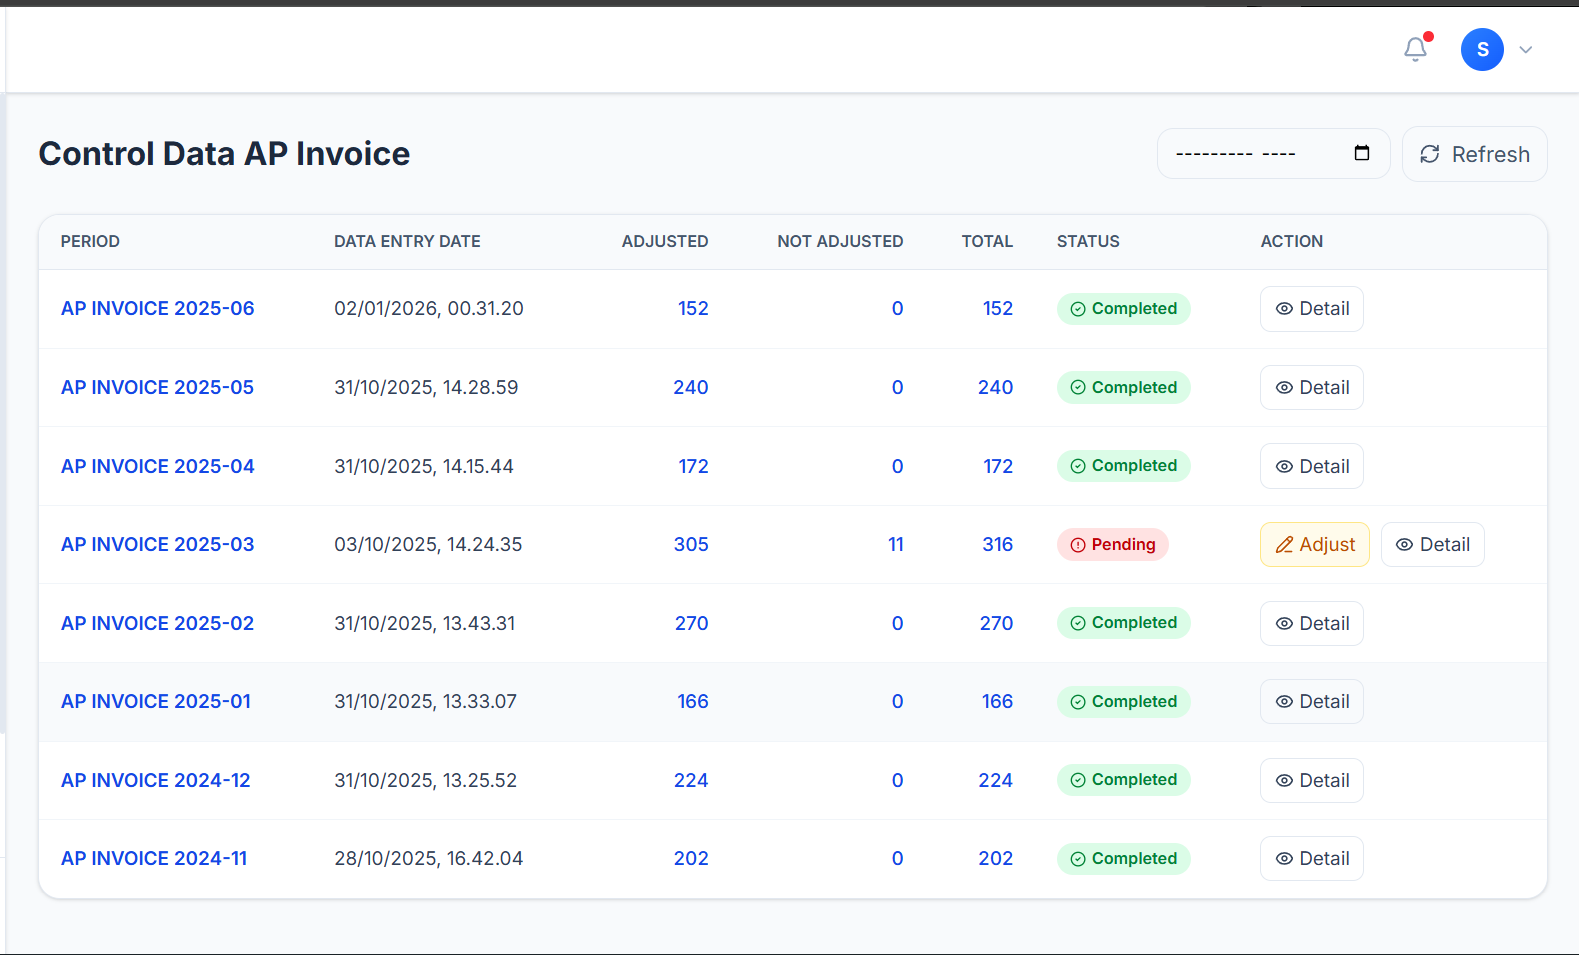
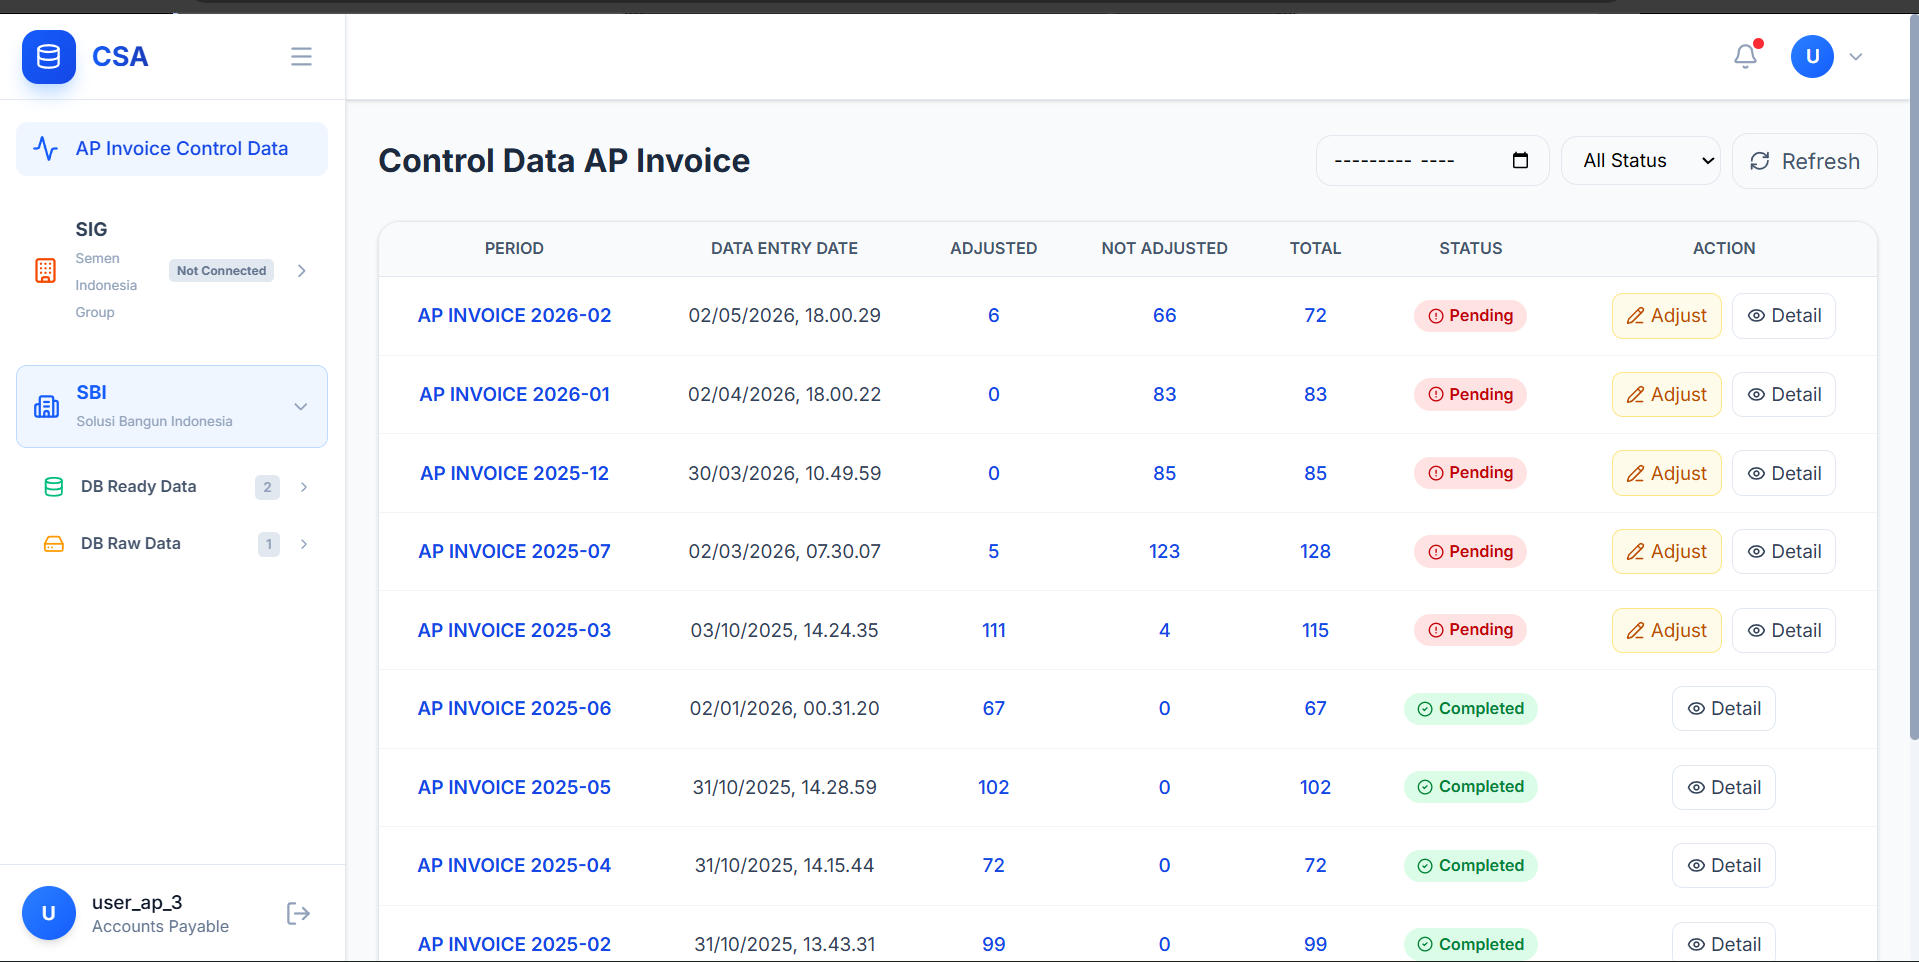
update csa

diff --git a/src/components/portfolio/ProjectsSection.tsx b/src/components/portfolio/ProjectsSection.tsx
@@ -19,7 +19,7 @@ const ProjectsSection = () => {
       description:
         "This application enables teams from each module to view data that has been loaded into the datamart and identify data that requires correction. Through this system, original source data is separated from user-corrected data, ensuring data integrity and simplifying the audit process.",
       image: "/assets/sisi/csa1.png",
-      images: ["/assets/sisi/csa1.png", "/assets/sisi/csa2.png", "/assets/sisi/csa3.png", "/assets/sisi/csa4.png", "/assets/sisi/csa5.png", "/assets/sisi/csa6.png"],
+      images: ["/assets/sisi/csa1.png", "/assets/sisi/csa2.png", "/assets/sisi/csa3.png", "/assets/sisi/csa4.png", "/assets/sisi/csa5.png", "/assets/sisi/csa6.png", "/assets/sisi/csa7.png"],
       technologies: ["Laravel", "React", "PostgreSQL"],
       company: "PT Sinergi Informatika Semen Indonesia",
       category: "Internship Project",

diff --git a/src/pages/Index.tsx b/src/pages/Index.tsx
@@ -15,7 +15,7 @@ const Index = () => {
       company: "PT Sinergi Informatika Semen Indonesia",
       bgColor: "bg-gradient-to-br from-sky-200 to-blue-100 border-2 border-blue-200",
       image: "/assets/sisi/csa1.png",
-      images: ["/assets/sisi/csa1.png", "/assets/sisi/csa2.png", "/assets/sisi/csa3.png", "/assets/sisi/csa4.png", "/assets/sisi/csa5.png", "/assets/sisi/csa6.png"],
+      images: ["/assets/sisi/csa1.png", "/assets/sisi/csa2.png", "/assets/sisi/csa3.png", "/assets/sisi/csa4.png", "/assets/sisi/csa5.png", "/assets/sisi/csa6.png", "/assets/sisi/csa7.png"],
     },
     {
       title: "First Aid Kit Consumption",
